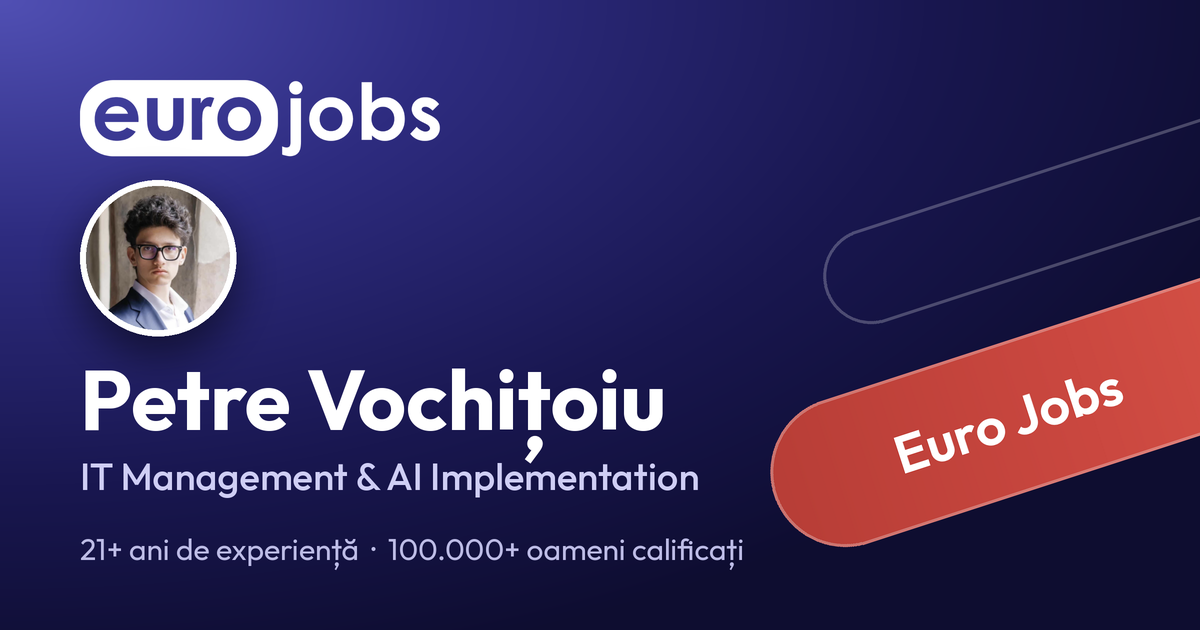
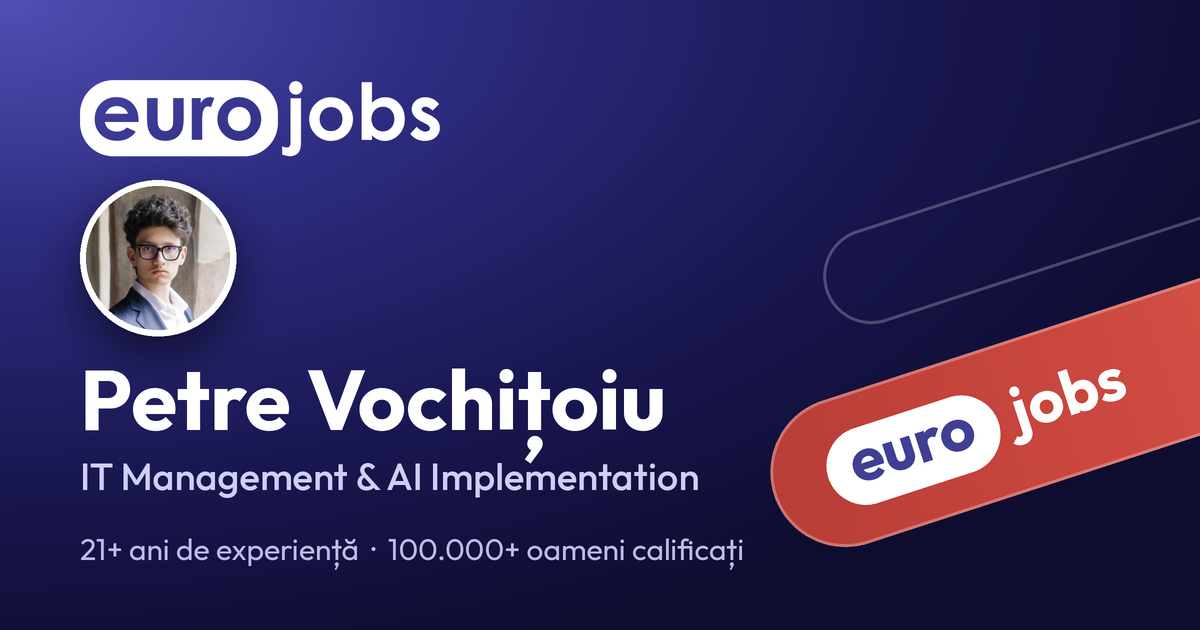
Banda roșie: euro jobs mai mare, în albastru și alb
Claude-Session: https://claude.ai/code/session_01DaUhcf1zv9M6omiJvqrh2W

Changed region(s): [[0.6783, 0.573, 0.9558, 0.8143]]

diff --git a/index.html b/index.html
@@ -53,7 +53,8 @@ a{color:inherit}
 .decor .p1{left:30%;width:105%;top:30%;height:clamp(64px,19%,96px);
   background:linear-gradient(95deg,#B83E37 0%,#CB4840 40%,#E4604F 100%);
   box-shadow:inset 0 2px 0 rgba(255,255,255,.28),inset 0 -10px 22px rgba(80,10,10,.35),0 22px 34px -14px rgba(0,0,0,.55)}
-.decor .p1 b{position:absolute;left:41%;top:50%;transform:translate(-50%,-52%);font-style:normal;font-weight:600;font-size:clamp(17px,4.8vw,22px);line-height:1;color:#fff;white-space:nowrap;letter-spacing:.01em;text-shadow:0 1px 2px rgba(90,15,12,.35)}
+.decor .p1 b{position:absolute;left:42%;top:50%;transform:translate(-50%,-50%);display:inline-flex;align-items:center;gap:.26em;font-style:normal;font-weight:700;font-size:clamp(21px,6vw,28px);line-height:1;color:#fff;white-space:nowrap;letter-spacing:-.005em}
+.decor .p1 b span{background:#fff;color:#413F94;border-radius:999px;padding:.1em .4em .16em;box-shadow:0 2px 8px rgba(90,15,12,.28)}
 .decor .p2{left:46%;width:90%;top:8%;height:clamp(40px,12%,60px);border:1.5px solid rgba(255,255,255,.22)}
 .decor .p3{left:18%;top:63%;width:14px;height:14px;background:#fff;opacity:.9;box-shadow:0 0 0 6px rgba(255,255,255,.08)}
 .face{position:absolute;z-index:2;left:clamp(22px,6vw,32px);top:50%;transform:translateY(-50%);width:clamp(108px,36%,156px);height:auto;aspect-ratio:1;border-radius:50%;object-fit:cover;border:4px solid #fff;background:#2E2C80;box-shadow:0 18px 32px -12px rgba(0,0,0,.6)}
@@ -123,7 +124,7 @@ footer{grid-column:1/-1;text-align:center;color:var(--muted);font-size:13px;padd
   <div class="lead">
     <article class="card" aria-label="Carte de vizită Petre Vochițoiu, Euro Jobs">
[1 lines of base64/hex data omitted]
-      <div class="decor"><i class="p2" aria-hidden="true"></i><i class="p1" aria-hidden="true"><b>Euro Jobs</b></i><img class="face" src="avatar.jpg" alt="Petre Vochițoiu" width="400" height="400"></div>
+      <div class="decor"><i class="p2" aria-hidden="true"></i><i class="p1" aria-hidden="true"><b><span>euro</span>jobs</b></i><img class="face" src="avatar.jpg" alt="Petre Vochițoiu" width="400" height="400"></div>
       <div class="who">
         <h1>Petre Vochițoiu</h1>
         <p class="role">IT Management &amp; AI&nbsp;Implementation</p>
